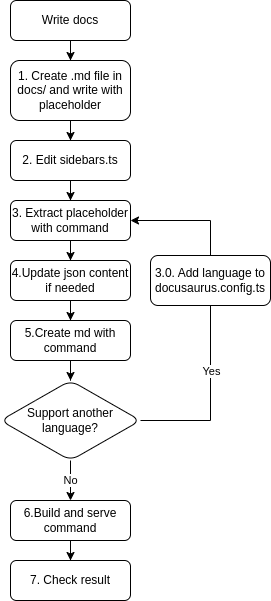
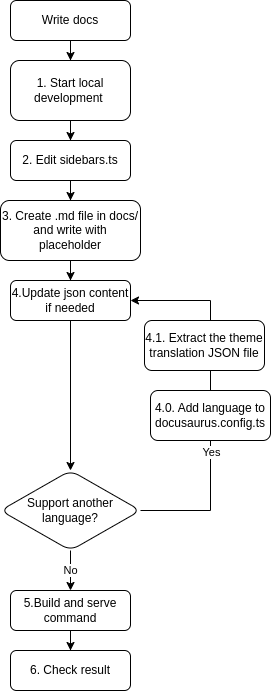
suport hot-reload

diff --git a/scripts/extract-placeholder.ts b/scripts/extract-placeholder.ts
@@ -1,6 +1,7 @@
 import config from "../docusaurus.config";
 import * as fs from "fs";
 import * as path from "path";
+import _ from "lodash";
 
 const fallbackLanguage = "en";
 
@@ -45,6 +46,8 @@ if (!inputLanguages) {
 const templatesDir = path.join(__dirname, "../docs");
 
 languages.forEach((language) => {
+  console.log(`Extract the translation JSON file for ${language} language`);
+
   const outputDir = path.join(__dirname, `../i18n/${language}/translation`);
 
   // Ensure the output directory exists
@@ -81,11 +84,13 @@ languages.forEach((language) => {
       language
     );
 
-    // Save the placeholders to the JSON file
-    fs.writeFileSync(outputFile, JSON.stringify(placeholders, null, 2), "utf8");
-
-    console.log(
-      `Extracted placeholders from ${markdownFile} and saved to ${outputFile}`
-    );
+    if (_.isEqual(currentPlaceholder, placeholders) == false) {
+      // Save the placeholders to the JSON file
+      fs.writeFileSync(
+        outputFile,
+        JSON.stringify(placeholders, null, 2),
+        "utf8"
+      );
+    }
   });
 });

diff --git a/scripts/replace-placeholders.ts b/scripts/replace-placeholders.ts
@@ -68,12 +68,6 @@ function replace(language: string, isFallback: boolean = false) {
       // Save the output back to the markdown file or a new one
       const outputFile = path.join(outputDir, markdownFile);
       fs.writeFileSync(outputFile, template, "utf8");
-
-      console.log(`Processed ${language}/${markdownFile} successfully`);
-    } else {
-      console.log(
-        `JSON file not found for ${language}/${markdownFile}, skipping...`
-      );
     }
   });
 }
@@ -108,9 +102,6 @@ languages.forEach((language) => {
   replace(language);
 
   if (language !== fallbackLanguage) {
-    console.log(
-      `Fallback content for ${language} language. Using ${fallbackLanguage} `
-    );
     replace(language, true);
   }
 });

diff --git a/README.md b/README.md
@@ -8,6 +8,18 @@ This website serves as the official documentation for [the MBC CQRS Serverless F
 $ npm install
 ```
 
+### Local Development
+
+```
+$ npm run start:watch
+
+or
+
+$ npm run start:watch -- --locale {{country-code}}
+```
+
+This command starts a local development server. Most changes are reflected live without having to restart the server.
+
 ### Build
 
 ```
@@ -30,30 +42,26 @@ After the build command, you can run a local server that will serve your website
 
 1. Append country code to `i18n.locales` in docusaurus.config.ts.
 
-2. Run command `npm run translate:extract-placeholder {{country-code}}` and `npm run write-translations -- --locale {{country-code}}`: extract the translation JSON file in the `i18n/{{country-code}}` folder
-
-3. Translate
-
-4. Run command `npm run translate:replace-placeholders {{country-code}}`: create docs for the language (if key is not translated, the content will fallback to EN language).
+2. Edit the content using the translation JSON file in the `i18n/{{country-code}}` folder
 
 #### Write documentation
 
-1. Create .md file in docs/ and write with placeholder
+1. Run command `npm run start:watch -- --locale {{country-code}}`
 
-2. Edit sidebar.ts file. For more information, please follow this guide: https://docusaurus.io/docs/sidebar/items
+2. Create .md file in docs/ and write with placeholder
 
-3. Run command `npm run translate:extract-placeholder`: extract the translation JSON file in the `i18n` folder
+3. Edit sidebar.ts file. For more information, please follow this guide: https://docusaurus.io/docs/sidebar/items
 
 4. Update the JSON for translation.
 
-5. Run command `npm run translate:replace-placeholders`
+5. Run command `npm run build` and `npm run serve`: build static website and serve website in local
 
-6. Run command `npm run build` and `npm run serve`: build static website and serve website in local
-
-7. Check result.
+6. Check result.
 
 We can summary the contributing process as the bellow image:
 
 <p align="center">
-  <img src="./static/img/contributing.png" />
+  <img width="250px" src="./static/img/contributing.png" />
 </p>
+
+Note: Extract the theme translation JSON file with command: `npm run write-translations -- --locale {{country-code}}`
